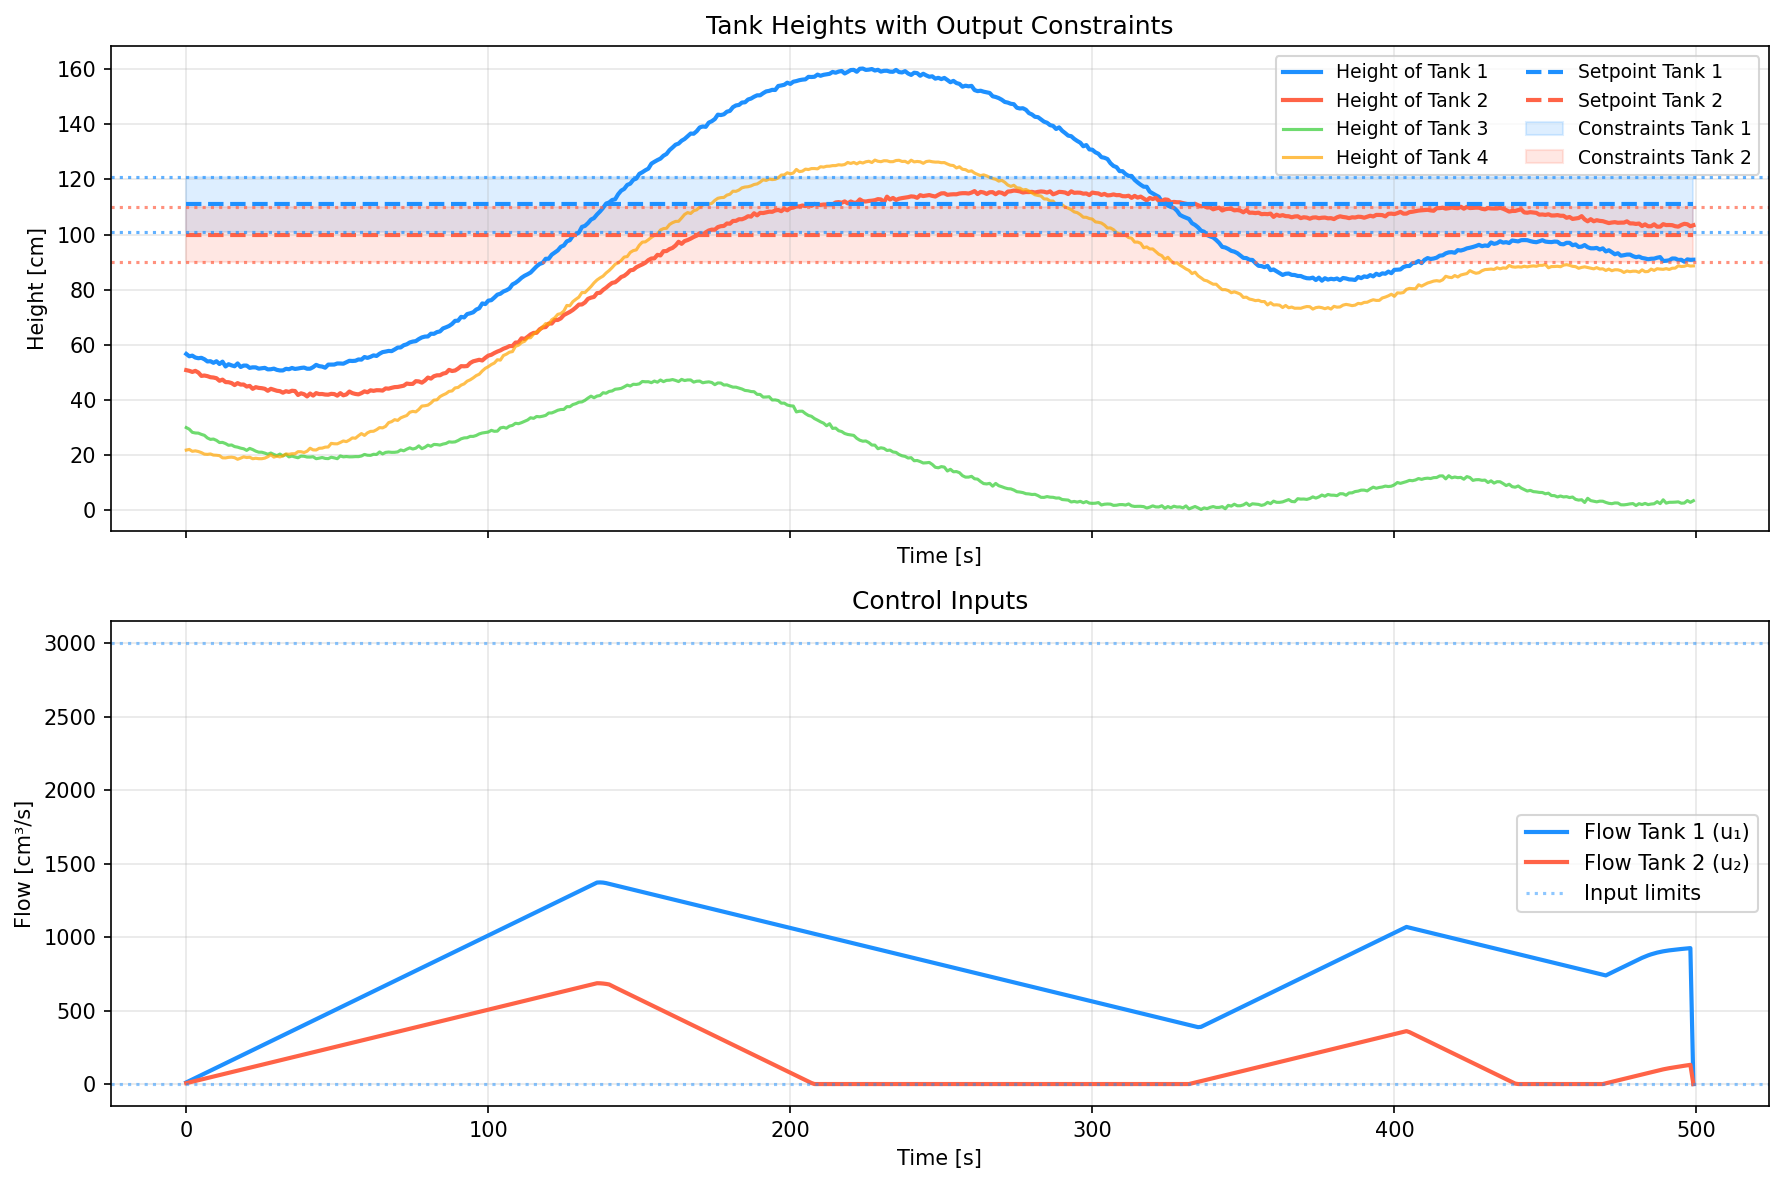
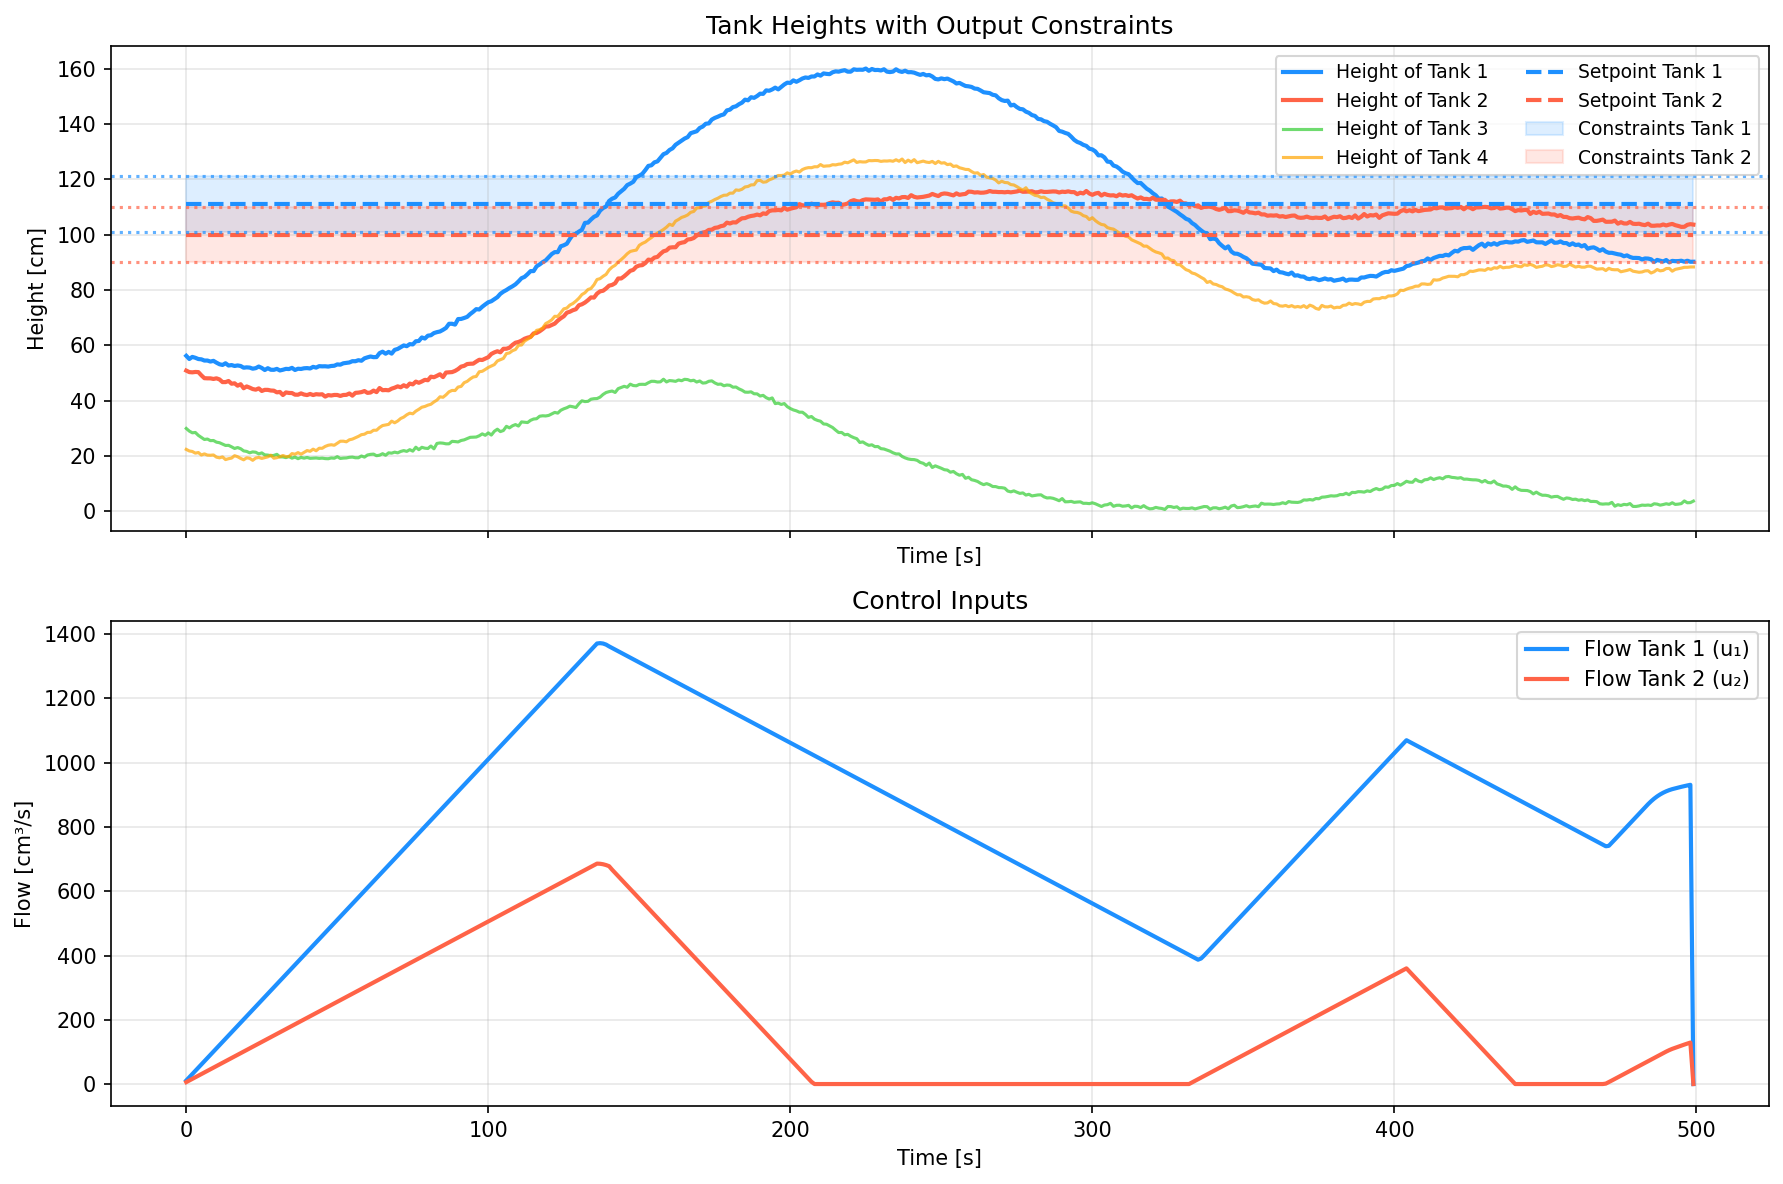
Problem 10 figures added (DONE)

diff --git a/Problem_10.py b/Problem_10.py
@@ -221,11 +221,6 @@ if __name__ == "__main__":
     axes[1].plot(t, u[0, :], label='Flow Tank 1 (u₁)', color='dodgerblue', linewidth=2)
     axes[1].plot(t, u[1, :], label='Flow Tank 2 (u₂)', color='tomato', linewidth=2)
     
-    # Plot input constraints
-    axes[1].axhline(y=Umax[0], color='dodgerblue', linestyle=':', linewidth=1.5, 
-                    alpha=0.5, label='Input limits')
-    axes[1].axhline(y=Umin[0], color='dodgerblue', linestyle=':', linewidth=1.5, alpha=0.5)
-    
     axes[1].legend(loc='best')
     axes[1].set_xlabel('Time [s]')
     axes[1].set_ylabel('Flow [cm³/s]')
